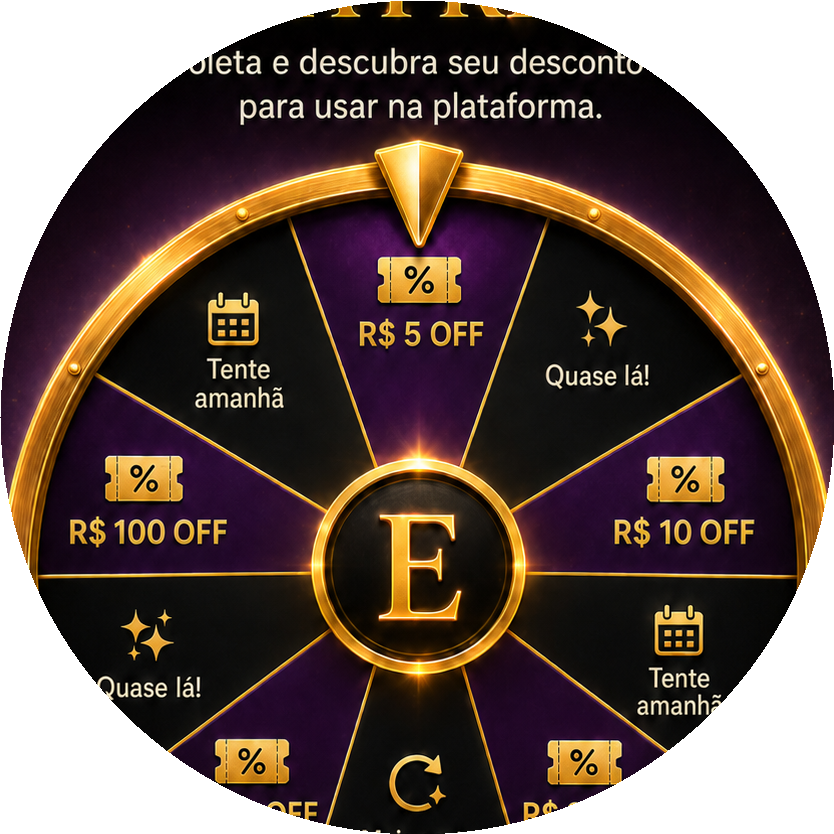
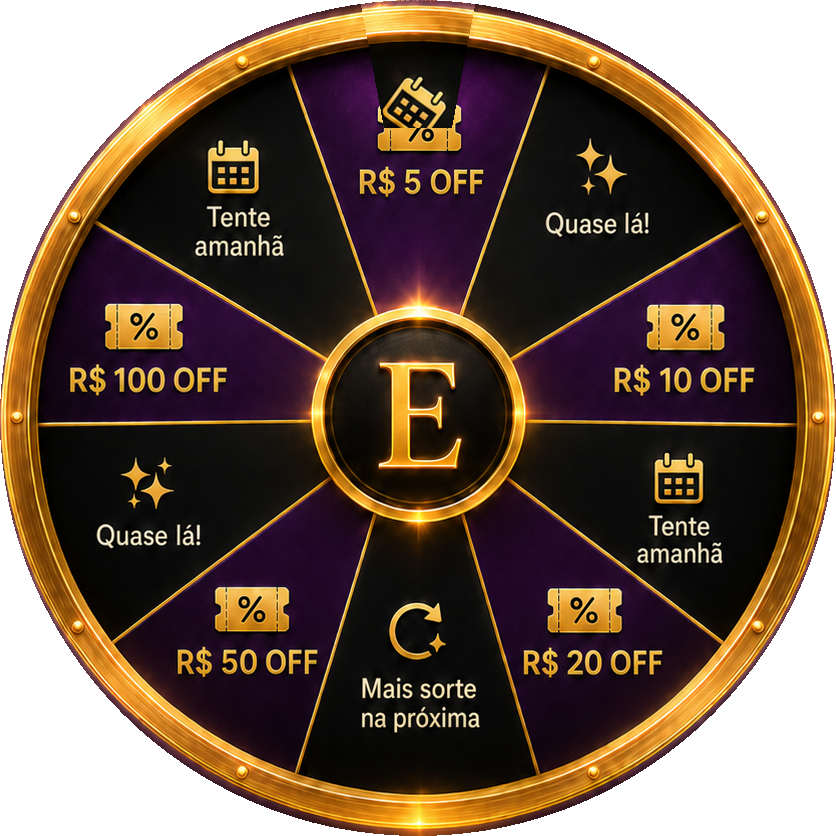
Make prize roulette wheel spin visually

diff --git a/src/components/vouchers/VoucherRouletteModal.tsx b/src/components/vouchers/VoucherRouletteModal.tsx
@@ -120,6 +120,8 @@ export default function VoucherRouletteModal() {
   const idempotencyRef = useRef(randomKey());
   const audioCtxRef = useRef<AudioContext | null>(null);
   const tickTimersRef = useRef<number[]>([]);
+  const spinFrameRef = useRef<number | null>(null);
+  const preSpinActiveRef = useRef(false);
 
   useEffect(() => {
     if (sessionStorage.getItem(CLOSED_KEY)) return;
@@ -139,6 +141,7 @@ export default function VoucherRouletteModal() {
 
   function close() {
     sessionStorage.setItem(CLOSED_KEY, "1");
+    stopWheelMotion();
     stopSpinSound();
     setOpen(false);
   }
@@ -195,29 +198,78 @@ export default function VoucherRouletteModal() {
     }
   }
 
-  function rotateToSegment(index: number) {
-    const wheel = wheelRef.current;
-    if (!wheel) return;
+  function setWheelRotation(angle: number) {
+    rotationRef.current = angle;
+    if (wheelRef.current) {
+      wheelRef.current.style.transform = `translateZ(0) rotate(${angle}deg)`;
+    }
+  }
 
+  function stopWheelMotion() {
+    preSpinActiveRef.current = false;
+    if (spinFrameRef.current !== null) {
+      window.cancelAnimationFrame(spinFrameRef.current);
+      spinFrameRef.current = null;
+    }
+  }
+
+  function startWheelMotion() {
+    stopWheelMotion();
+    preSpinActiveRef.current = true;
+
+    let lastFrame = performance.now();
+    const step = (now: number) => {
+      const elapsed = Math.min(now - lastFrame, 40);
+      lastFrame = now;
+      setWheelRotation(rotationRef.current + elapsed * 0.82);
+
+      if (preSpinActiveRef.current) {
+        spinFrameRef.current = window.requestAnimationFrame(step);
+      }
+    };
+
+    spinFrameRef.current = window.requestAnimationFrame(step);
+  }
+
+  function animateWheelToSegment(index: number) {
+    if (!wheelRef.current) return Promise.resolve();
+    stopWheelMotion();
     const current = rotationRef.current;
     const normalized = ((current % 360) + 360) % 360;
     const target = (360 - index * SEGMENT_ANGLE) % 360;
     let delta = 360 * 6 + target - normalized;
     if (delta < 360 * 5) delta += 360;
     const next = current + delta;
-    rotationRef.current = next;
 
-    // Reset any existing transition, flush layout, then animate
-    wheel.style.transition = "none";
-    void wheel.offsetWidth;
-    wheel.style.transition = `transform ${SPIN_DURATION_MS}ms cubic-bezier(0.15, 0.85, 0.25, 1)`;
-    wheel.style.transform = `rotate(${next}deg)`;
+    return new Promise<void>((resolve) => {
+      const start = performance.now();
+      const easeOut = (progress: number) => 1 - Math.pow(1 - progress, 3);
+
+      const step = (now: number) => {
+        const progress = Math.min((now - start) / SPIN_DURATION_MS, 1);
+        const eased = easeOut(progress);
+        setWheelRotation(current + delta * eased);
+
+        if (progress < 1) {
+          spinFrameRef.current = window.requestAnimationFrame(step);
+          return;
+        }
+
+        setWheelRotation(next);
+        spinFrameRef.current = null;
+        resolve();
+      };
+
+      spinFrameRef.current = window.requestAnimationFrame(step);
+    });
   }
 
   async function spin() {
     if (!config || spinning || result) return;
 
     setSpinning(true);
+    setShowResult(false);
+    startWheelMotion();
     startSpinSound();
 
     try {
@@ -229,15 +281,14 @@ export default function VoucherRouletteModal() {
       const data: SpinResult & { error?: string } = await res.json();
       if (!res.ok) throw new Error(data.error ?? "Não foi possível girar agora.");
 
-      rotateToSegment(resolveVisualIndex(data));
+      await animateWheelToSegment(resolveVisualIndex(data));
 
-      window.setTimeout(() => {
-        stopSpinSound();
-        setResult(data);
-        setShowResult(true);
-        setSpinning(false);
-      }, SPIN_DURATION_MS);
+      stopSpinSound();
+      setResult(data);
+      setShowResult(true);
+      setSpinning(false);
     } catch (err) {
+      stopWheelMotion();
       stopSpinSound();
       setResult({
         spinId: "",
@@ -547,7 +598,9 @@ export default function VoucherRouletteModal() {
           display: block;
           width: 100%; height: 100%;
           object-fit: cover;
+          transform: translateZ(0) rotate(0deg);
           transform-origin: 50% 50%;
+          backface-visibility: hidden;
           user-select: none;
           pointer-events: none;
           will-change: transform;
